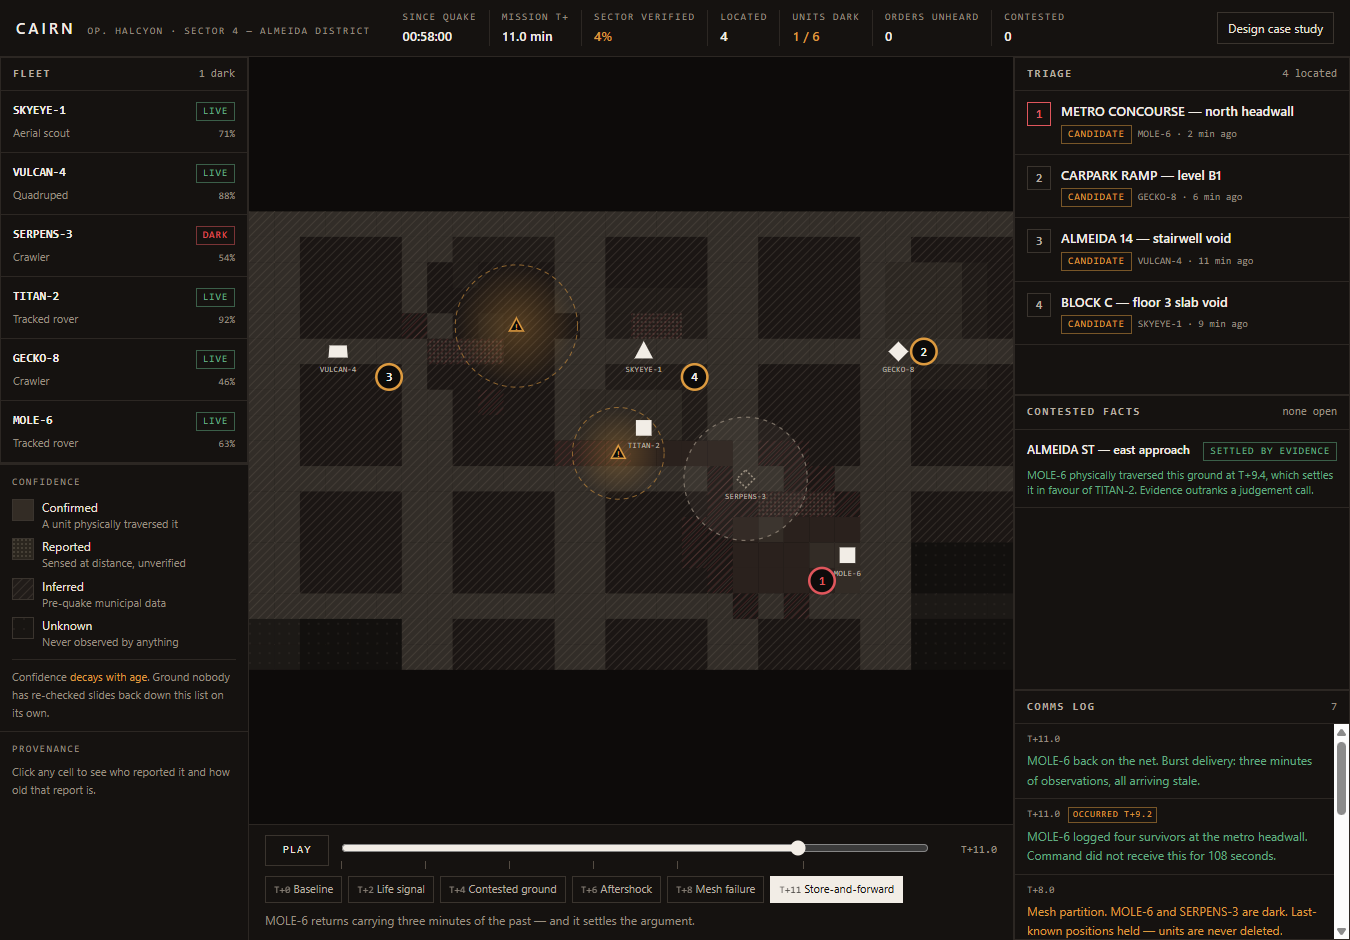
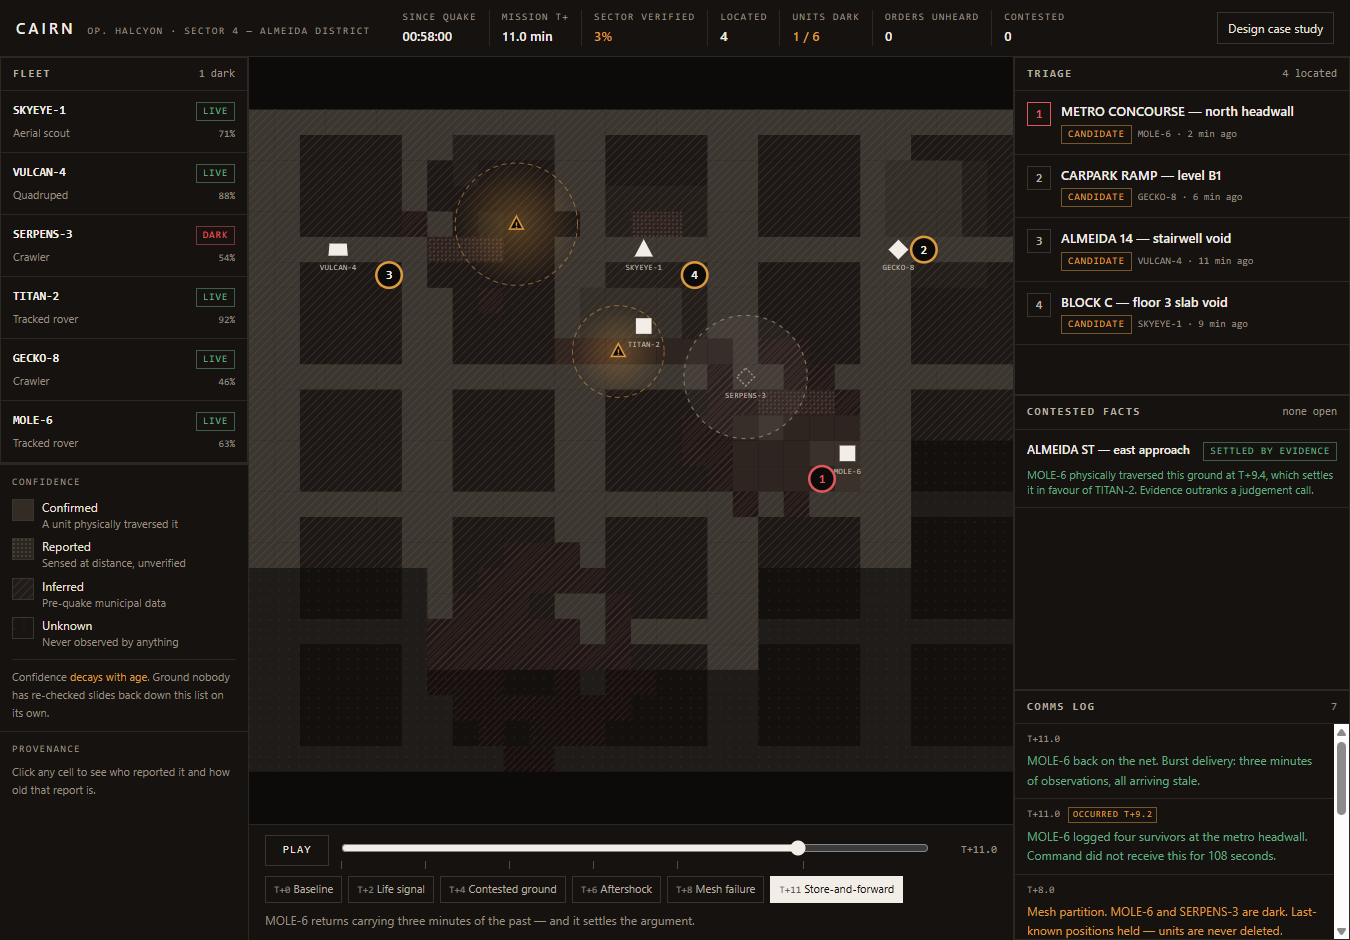
Add README screenshots of the three signature moments
Captured from the deployed build, not a mockup: the store-and-forward
burst at T+11, the contested fact at T+04, and a triage score showing
its arithmetic. A judge scanning the repo should see the product before
reading a word of it.

Changed region(s): [[0.1867, 0.0926, 0.7467, 0.833], [0.6533, 0.4936, 0.7778, 0.5245]]

diff --git a/README.md b/README.md
@@ -9,6 +9,10 @@
 Submission for **UXcelerate!** — the IEI BPDC UI/UX challenge, 5–6 September 2026.
 Forked from [ieibpdc/UXcelerate](https://github.com/ieibpdc/UXcelerate).
 
+[![CAIRN command deck at T+11](docs/img/backfill.png)](https://aaaditt.github.io/UXcelerate/)
+
+<sup>**T+11 — store-and-forward.** MOLE-6 returns from three minutes of radio silence. Its observations are stamped `OCCURRED T+9.2` in the log because they arrived late, and the ground it physically drove has just **settled the argument** that two remote sensors could only disagree about.</sup>
+
 ---
 
 > *A cairn is what people build to mark a safe route when there is no map.*
@@ -61,6 +65,11 @@ Six named beats, jumpable from the timeline or with keys `1`–`6`:
 
 **Keyboard:** `space` play/pause · `1`–`6` jump to beat · `esc` clear selection
 **In-app:** the full written case study is behind *Design case study* in the top right.
+
+| | |
+|---|---|
+| ![Contested fact at T+4](docs/img/contested.png) | ![Triage score breakdown](docs/img/triage.png) |
+| **T+04 — the system refuses to choose.** Both claims are attributed with their sensor and timestamp. Until Command adjudicates, the contested cells stay impassable in every route we calculate. | **Every rank shows its arithmetic.** Vitals confidence, void space, corroboration, elapsed time and route trust — plus what would change the ordering. |
 
 ## Accessibility — stated honestly
 
